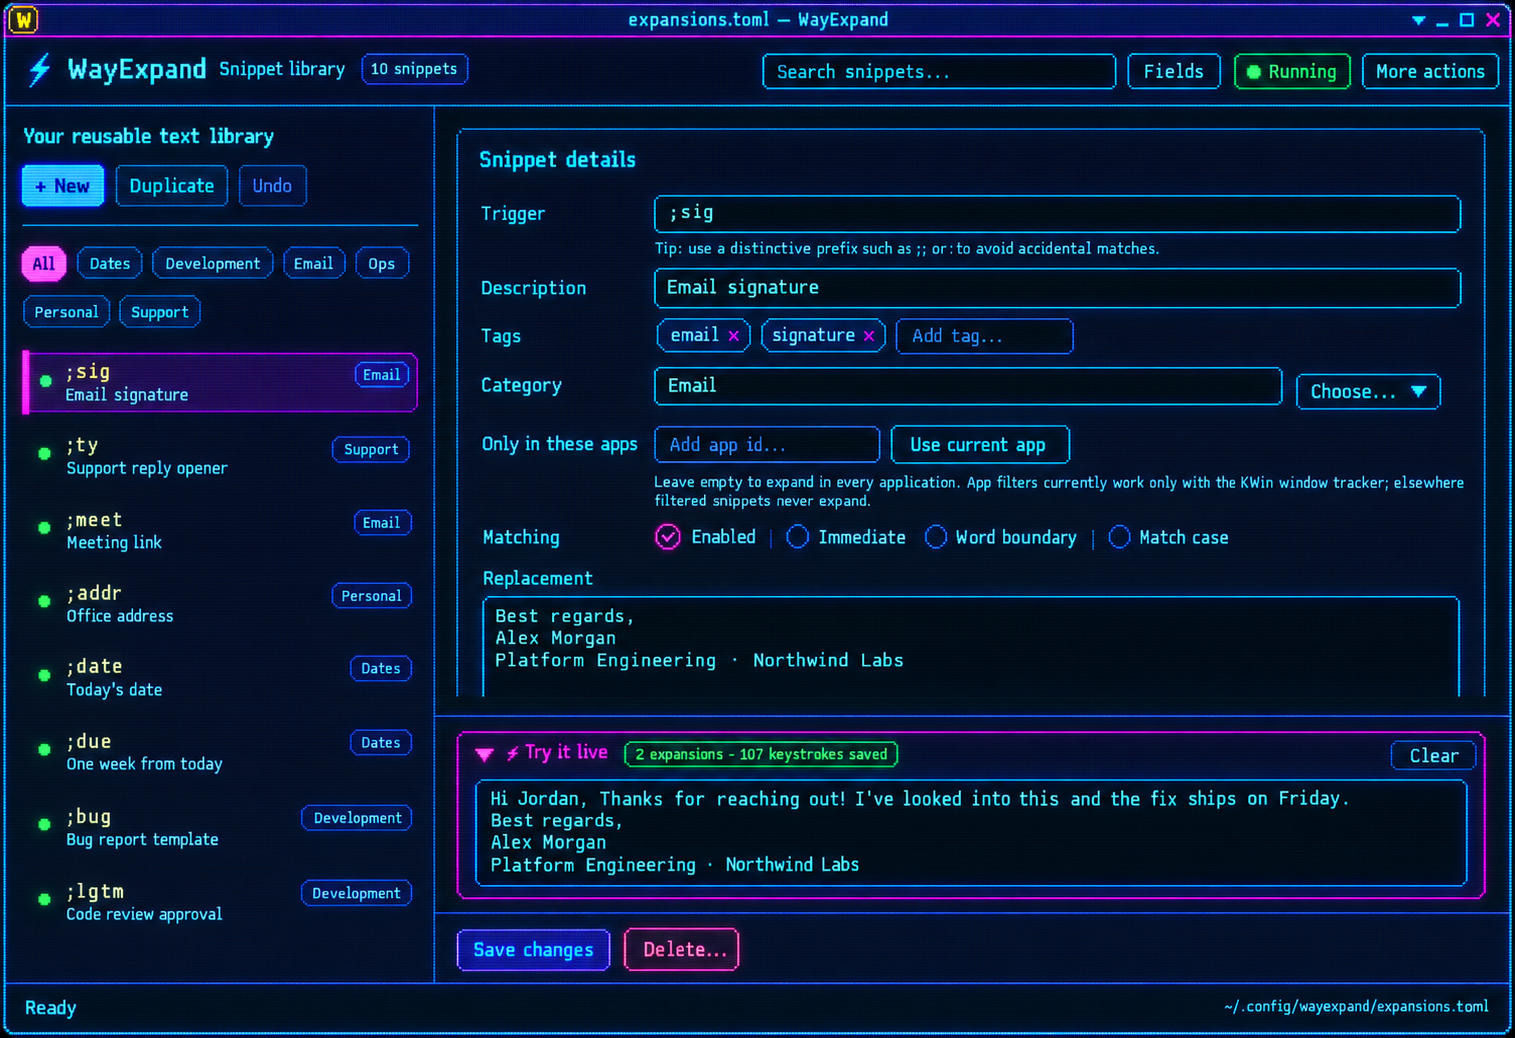
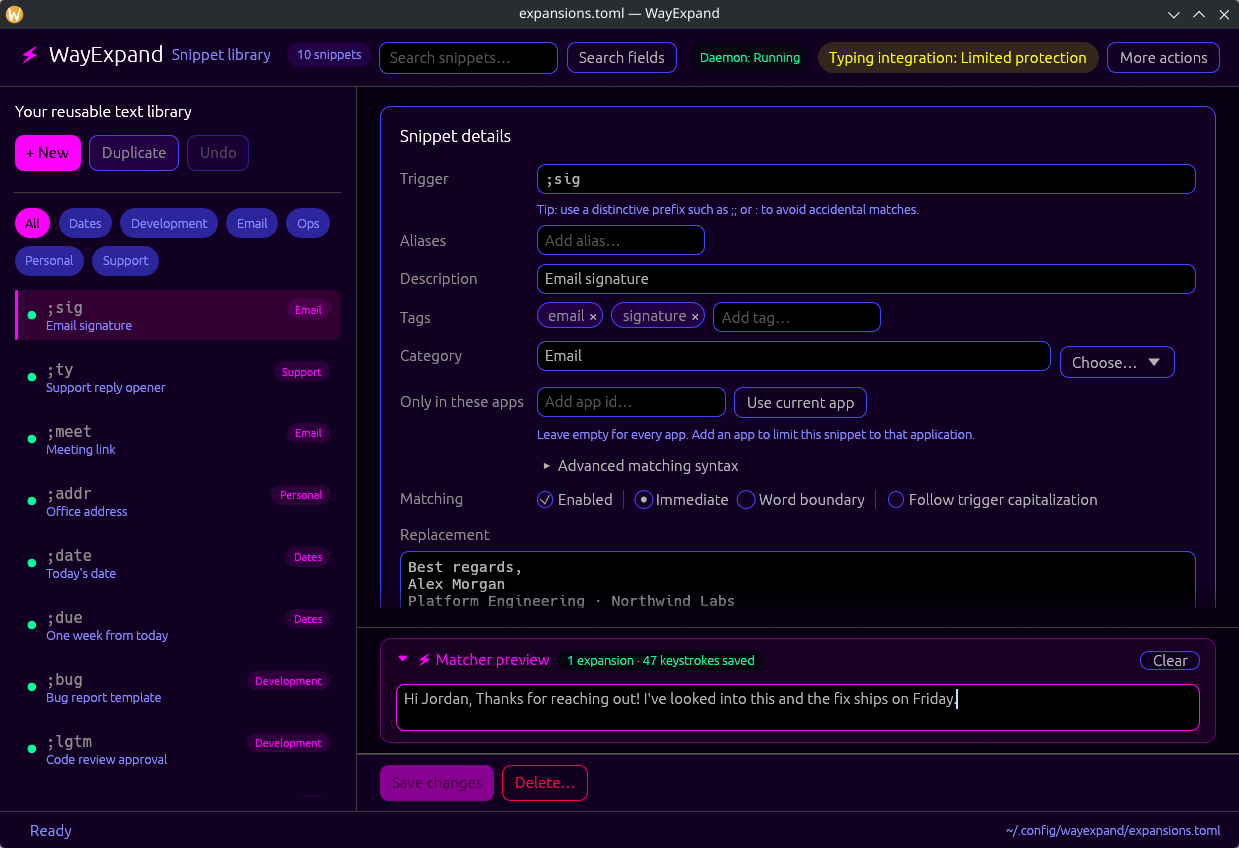
Replace mock README screenshots with real Retro 80s Neon captures
The previous commit added generated mockups rather than screenshots: they
showed CRT scanlines, controls, labels, and status chips the GUI does not
have, and were 10-30x larger. Recapture the editor, first-run screen, and
quick-insert picker from the current GUI with the Retro 80s Neon color
pack, using a sandboxed demo library and daemon, and update the alt text
to describe what the images actually show.

diff --git a/README.md b/README.md
@@ -12,7 +12,7 @@ signature. Type `;ty` and get your support reply — with the cursor waiting
 where you need to keep typing. Dates, addresses, templates, team snippets:
 local, offline, no account, no telemetry.
 
-![WayExpand's editor with its live preview field: typing "Hi Jordan, ;ty … ;sig" expanded into a full reply and signature, "2 expansions · 107 keystrokes saved"](docs/images/wayexpand-editor-try-it-live.png)
+![WayExpand's editor in the Retro 80s Neon color pack, with the Matcher preview: typing "Hi Jordan, ;ty …" expanded into a full support reply, "1 expansion · 47 keystrokes saved"](docs/images/wayexpand-editor-try-it-live.png)
 
 ### What makes it different
 
@@ -27,7 +27,7 @@ local, offline, no account, no telemetry.
   tracking (currently KDE Plasma); elsewhere, or without the service, Enter
   copies it to the clipboard. No trigger to remember.
 
-  ![The quick-insert picker: a search box with "re" typed and matching snippets ranked below](docs/images/wayexpand-quick-insert-picker.png)
+  ![The quick-insert picker in the Retro 80s Neon color pack: a search box above the snippet list, each entry showing its trigger, description, category, and a preview](docs/images/wayexpand-quick-insert-picker.png)
 
 - **One click to turn on.** The first-run screen detects your desktop and
   enables the safest input path it finds. It never grants raw keyboard access
@@ -92,7 +92,7 @@ accept portal consent for you.
 
 ## Your first minute
 
-![WayExpand's first-run screen with three steps: Turn on WayExpand, Add your first snippet, Try it](docs/images/wayexpand-first-run.png)
+![WayExpand's first-run screen in the Retro 80s Neon color pack with three steps: Turn on WayExpand, Add your first snippet, Try it](docs/images/wayexpand-first-run.png)
 
 1. **Turn on WayExpand** — one click in the GUI, or `wayexpand setup` in a
    terminal.

diff --git a/README.de.md b/README.de.md
@@ -15,7 +15,7 @@ automatisierte End-to-End-Zertifizierung freigegeben. Prüfen Sie vor dem
 produktiven Einsatz `wayexpand doctor` und die
 [Support-Matrix](docs/SUPPORT_MATRIX.md).
 
-![WayExpand-Editor mit Live-Vorschau: aus „Hi Jordan, ;ty … ;sig“ wird eine vollständige Antwort mit Signatur](docs/images/wayexpand-editor-try-it-live.png)
+![WayExpand-Editor im Farbschema „Retro 80s Neon“ mit Matcher-Vorschau: aus „Hi Jordan, ;ty …“ wird eine vollständige Support-Antwort](docs/images/wayexpand-editor-try-it-live.png)
 
 ### Das Besondere
 
